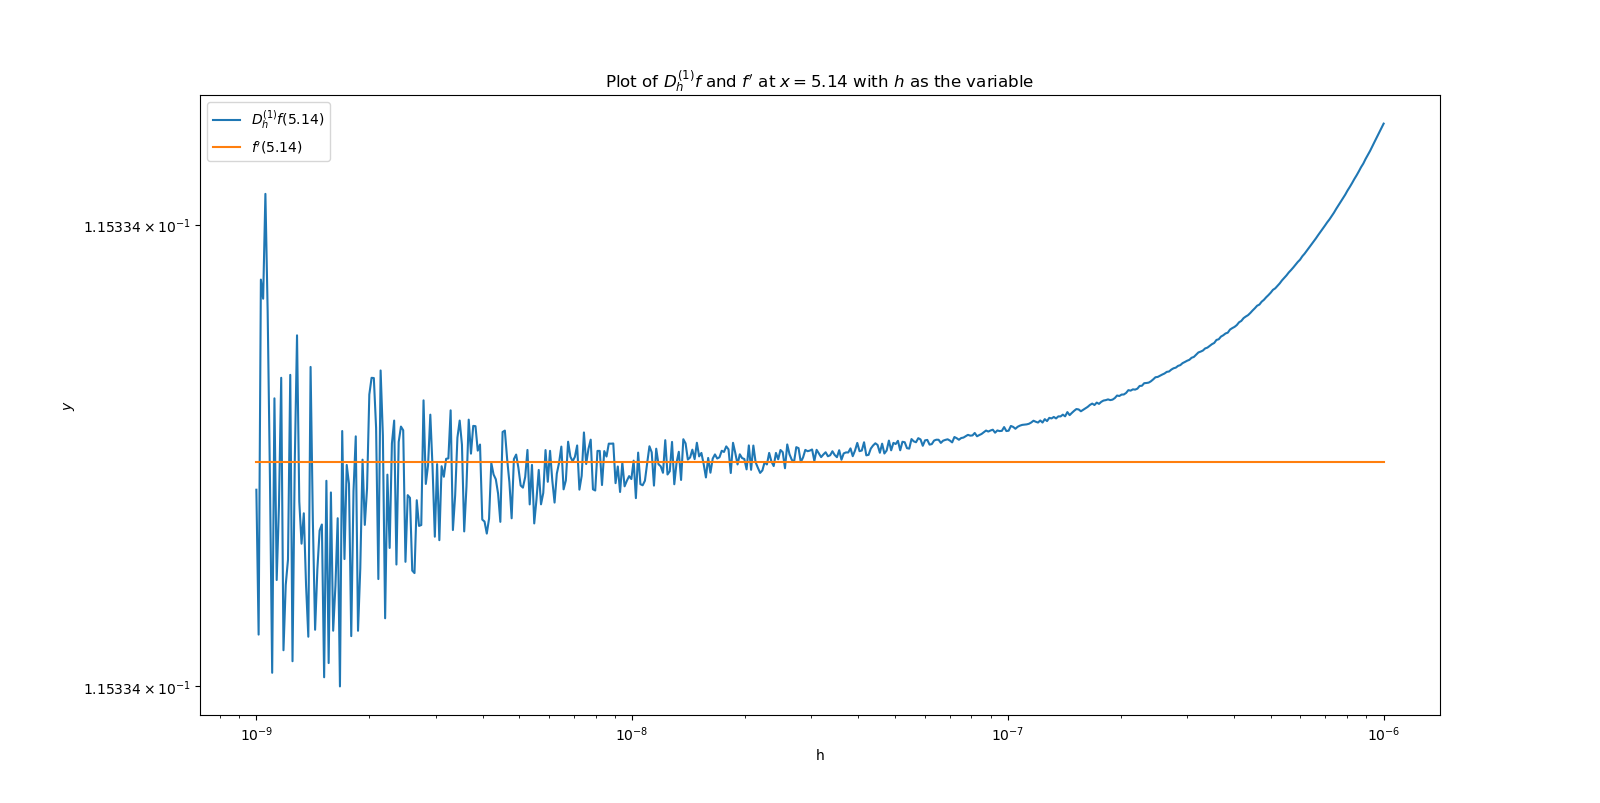
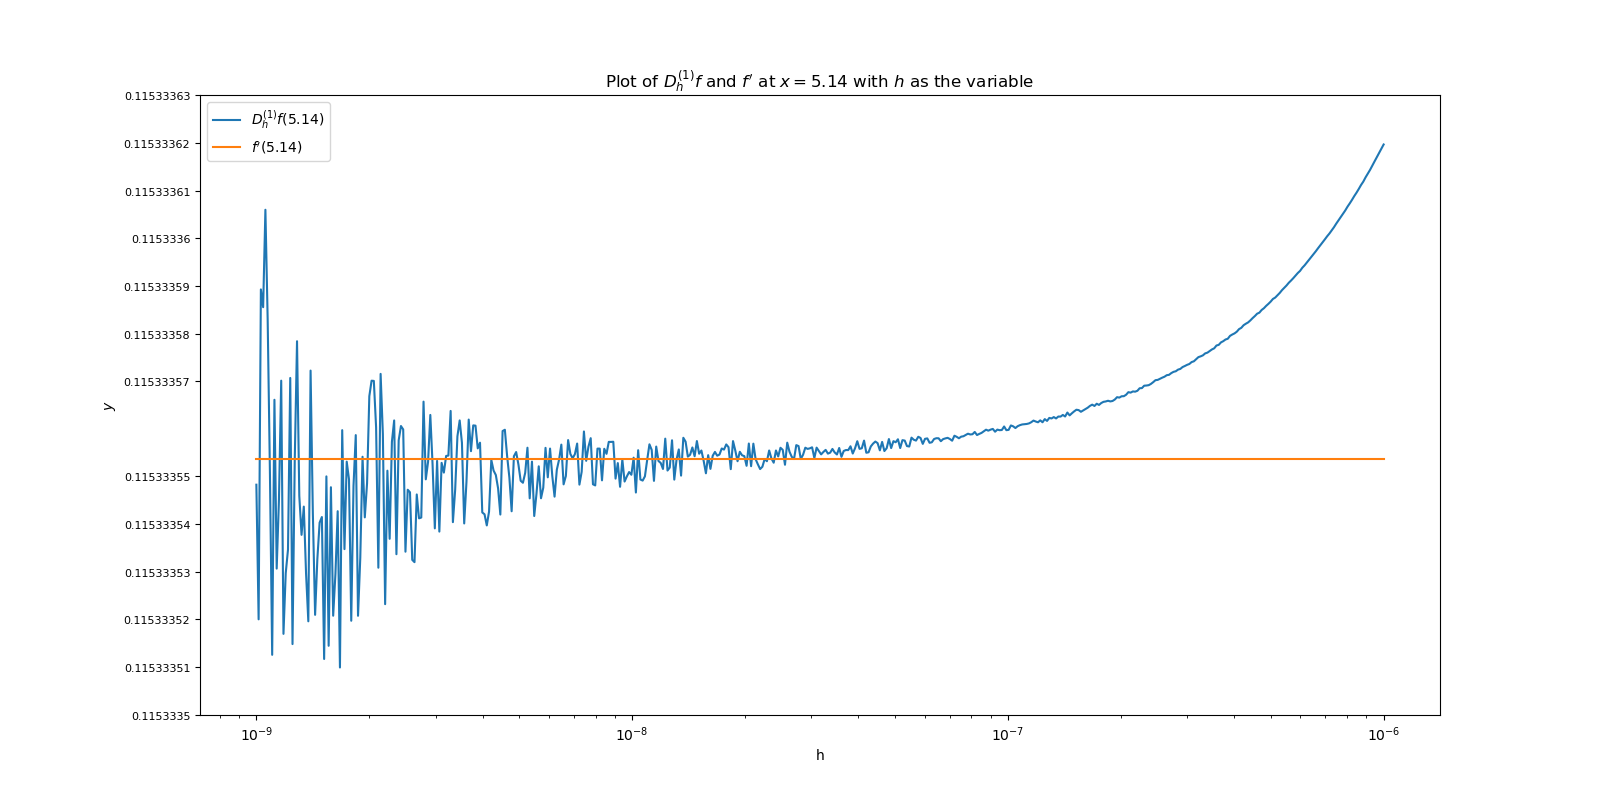
updated the graphics

diff --git a/first_gate/additional_experiments.py b/first_gate/additional_experiments.py
@@ -41,9 +41,15 @@ class AdditionalExperiments:
         plt.ylabel("$y$")
         plt.title("Plot of $D_h^{(1)}f$ and $f'$ at $x = " + str(round(self.defaultx, 2)) + " $ with $h$ as the variable")
         plt.legend()
-        ticks = [0.11533351, 0.1153336]
 
-        ax.set_yticks(ticks)
+        # we are working with very small numbers which means we need custom ticks
+        # one may humor me and write this with np.arange
+        ticks1 = (0.1153335, 0.11533351, 0.11533352, 0.11533353, 0.11533354, 0.11533355, 0.11533357)
+        ticks2 = (0.11533358, 0.11533359, 0.1153336, 0.11533361, 0.11533362, 0.11533363)
+        ticks = ticks1 + ticks2
+        labels = (str(value) for value in ticks)
+        plt.yticks(ticks, labels, fontsize=8)
+
         plt.show()
 
     def draw_second_approximation(self):
@@ -62,19 +68,12 @@ class AdditionalExperiments:
         plt.ylabel("$y$")
         plt.title("Plot of $D_h^{(1)}f$ and $f'$ at $x = " + str(round(self.defaultx, 2)) + " $ with $h$ as the variable")
         plt.legend()
-        # ticks = [0.11533351, 0.1153336]
 
-        # ax.set_yticks(ticks)
-        plt.show()
-
-    def draw_first_difference(self):
-        h_values = np.logspace(-17, -14, num=10000)
-        d1_difference_values = [self.f(self.defaultx + h) - self.f(self.defaultx) for h in h_values]
-
-        fig = plt.figure()
-        ax = fig.add_subplot(1, 1, 1)
-
-        plt.loglog(h_values, d1_difference_values)
+        # we need custom ticks because we are woring with very small numbers
+        # again, if one wants to arange this, be my guest
+        ticks = (0.1319879, 0.131988, 0.1319881, 0.1319882, 0.1319883, 0.1319884)
+        labels = (str(value) for value in ticks)
+        plt.yticks(ticks, labels, fontsize=8)
 
         plt.show()
 

diff --git a/first_gate/protocol/contents/experiment1.tex b/first_gate/protocol/contents/experiment1.tex
@@ -45,6 +45,6 @@ Therefore, we proceed by looking at the definition of the approximation. We had
     D^{(2)}_h(x) &:= \frac{f(x + h) + f(x - h)- 2 f(x)}{h^2} \text{.}
 \end{align*}
 % here maybe we could takl about the conditioning of f?
-For \(D^{(1)}_h\), if \(h\) becomes small enough, then \(g_1(x + h) \approx g_1(x)\) since \(g_1\) is continuous. Hence at the numerator, we are essentially subtracting two numbers which are close to each other, but such subtractions are ill-conditioned (see \ref{XXX}). In other words, for \(h\) which are small enough, we loose accuracy at this point of the approximation process resulting in the error graph we have seen at \ref{XXX}. Similar argumentation also works for the second derivative as \(f(x + h) + f(x - h) \approx 2 f(x)\) for small \(h\).
+For \(D^{(1)}_h\), if \(h\) becomes small enough, then \(g_1(x + h) \approx g_1(x)\) since \(g_1\) is continuous. Hence at the numerator, we are essentially subtracting two numbers which are close to each other, but such subtractions are ill-conditioned (see \cite{Lecture}). In other words, for \(h\) which are small enough, we loose accuracy at this point of the approximation process resulting in the error graph we have seen at \ref{XXX}. Similar argumentation also works for the second derivative as \(f(x + h) + f(x - h) \approx 2 f(x)\) for small \(h\).
 
 It is important to keep in mind that the threshhold for \(h\) being \textit{small enough} depends on the machine precision used for the computation. Our result is based on a 64-Bit float and while in general, the approximation will never converge to the analytic derivative outside of our mathematical imagination, the exact spot where the error stops decreasing might differ.

diff --git a/first_gate/protocol/protocol.tex b/first_gate/protocol/protocol.tex
@@ -21,13 +21,18 @@
 \input{contents/experiment1.tex}
 \input{contents/experiment2.tex}
 
-\begin{thebibliography}{9}
+\begin{thebibliography}{2}
+
 \bibitem{H.Amann} 
 Herbert Amann, Joachim Escher
 \textit{Analysis I} (German). 
 3rd edition, Birkh{\"a}user Verlag, Berlin, 2006.
 
+\bibitem{Lecture}
+Caren Tischendorf
+\textit{Numerische Lineare Algebra} (German).
+Lecture at Humboldt University of Berlin, Winter Semester 2019/20.
 
-\end{thebibliography}{9}
+\end{thebibliography}
 
 \end{document}
